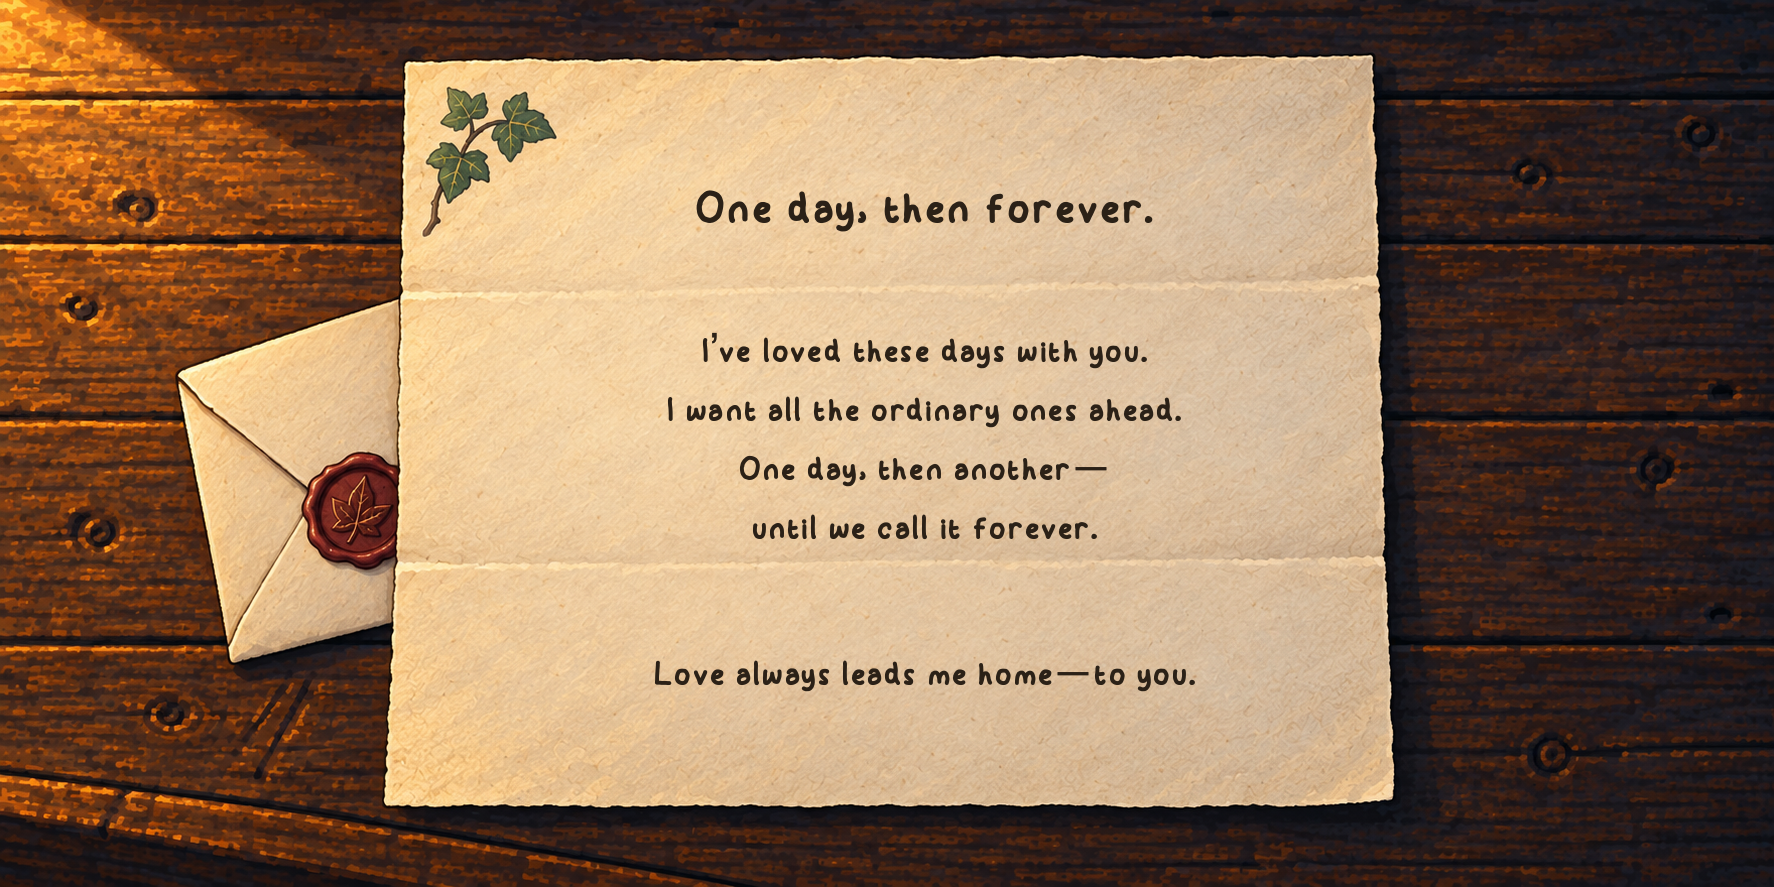
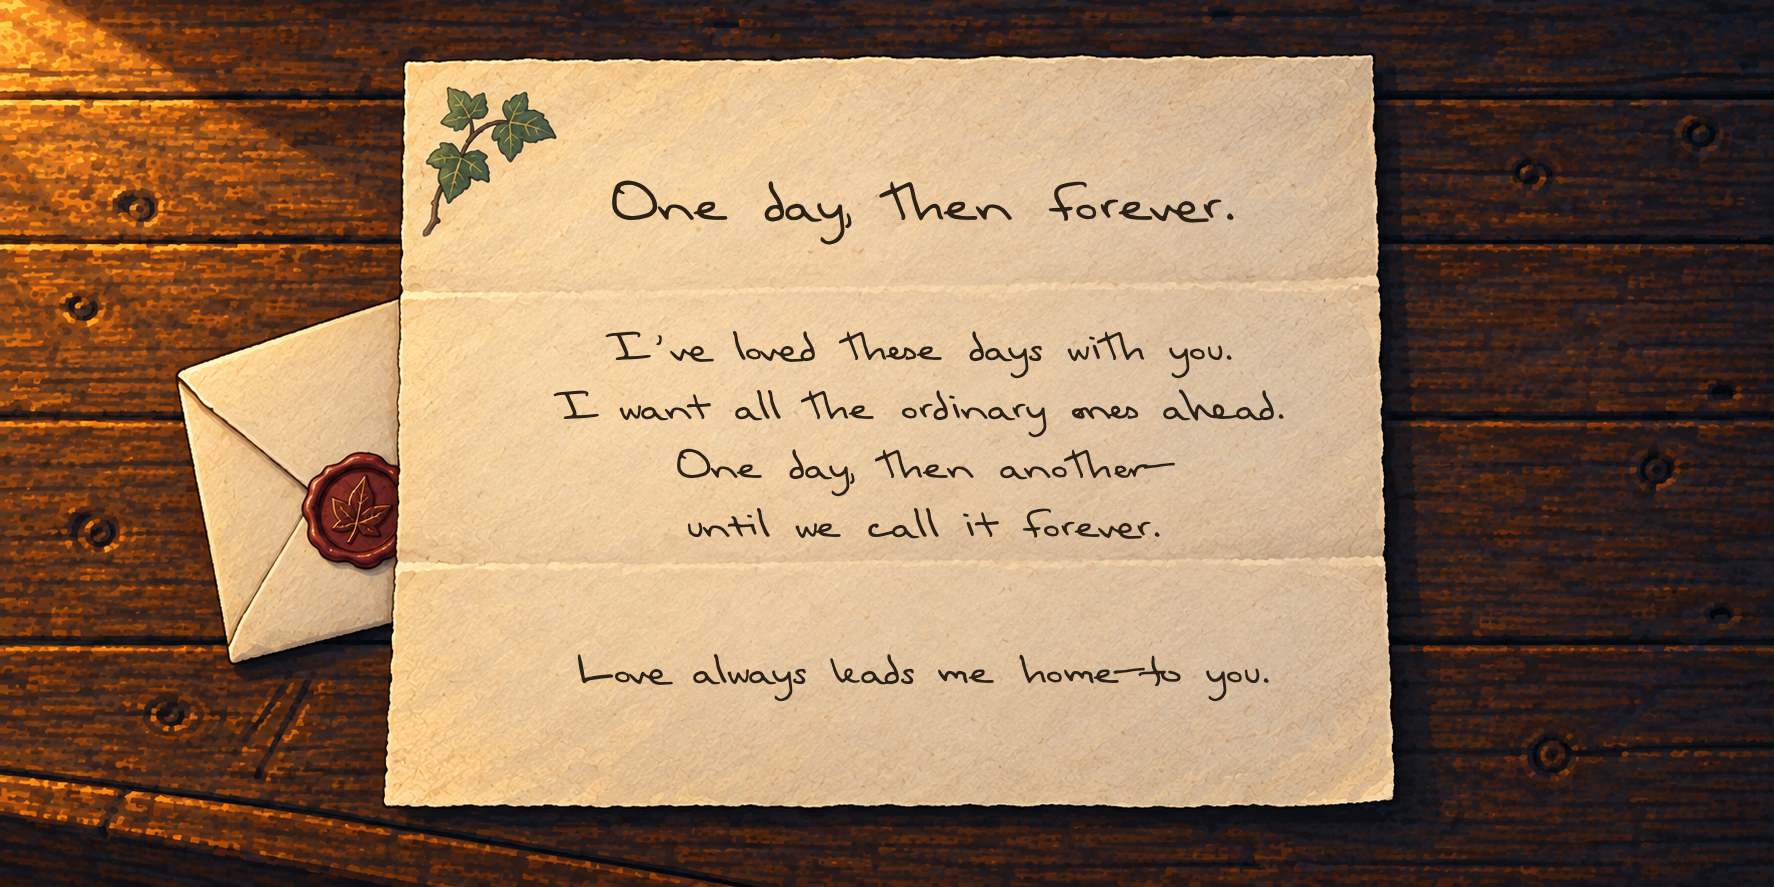
Use Juniper lettering for first and finale letters

diff --git a/scripts/export_finale_letters.swift b/scripts/export_finale_letters.swift
@@ -45,10 +45,10 @@ for state in ["idle", "lever", "envelope-half", "envelope-full", "heart"] {
     try export(load("machine-" + state), "lottery-machine-" + state)
 }
 
-CTFontManagerRegisterFontsForURL(root.appendingPathComponent("ios/Ivy/Fonts/Kiddos.ttf") as CFURL, .process, nil)
+CTFontManagerRegisterFontsForURL(root.appendingPathComponent("ios/Ivy/Fonts/Juniper-Regular.ttf") as CFURL, .process, nil)
 let paper = load("paper")
 // Original 1774×887 artwork: paper x=400...1390, y=58...808.
-// Lettering stays x=565...1285, y=176...745, clear of ivy and paper edges.
+// Lettering stays x=545...1305, y=176...745, clear of ivy and paper edges.
 let letters: [(String, [(String, CGFloat, CGFloat)])] = [
     ("letter-finale", [
         ("One day, then forever.", 182, 54),
@@ -73,7 +73,7 @@ for (name, lines) in letters {
     NSGraphicsContext.saveGraphicsState()
     NSGraphicsContext.current = NSGraphicsContext(cgContext: c, flipped: false)
     for (text, top, size) in lines {
-        let font = NSFont(name: "KidDos-Font", size: size)!
+        let font = NSFont(name: "Juniper-Regular", size: size)!
         let paragraph = NSMutableParagraphStyle()
         paragraph.alignment = .center
         let attributes: [NSAttributedString.Key: Any] = [
@@ -81,8 +81,8 @@ for (name, lines) in letters {
             .paragraphStyle: paragraph
         ]
         // A production guard against copy/font changes overflowing the writable surface.
-        precondition((text as NSString).size(withAttributes: attributes).width <= 720, "Letter line exceeds paper")
-        (text as NSString).draw(in: CGRect(x: 565, y: 887 - top - 80, width: 720, height: 80), withAttributes: attributes)
+        precondition((text as NSString).size(withAttributes: attributes).width <= 760, "Letter line exceeds paper")
+        (text as NSString).draw(in: CGRect(x: 545, y: 887 - top - 80, width: 760, height: 80), withAttributes: attributes)
     }
     NSGraphicsContext.restoreGraphicsState()
     try png(c.makeImage()!, source.appendingPathComponent(name + ".png"))

diff --git a/art/finale/letters/README.md b/art/finale/letters/README.md
@@ -1,6 +1,6 @@
 # First Letter and finale artwork
 
-Approved direction on 2026-09-25: cream folded paper, red ivy wax seal, warm wooden surface; user requested the game's system lettering, Kiddos, and the same style for the first Letter. The finale machine's dispensing assembly is also redesigned. No new copy or rewards.
+Approved direction on 2026-09-25: cream folded paper, red ivy wax seal, warm wooden surface; user subsequently selected Juniper lettering for both letters and the same style for the first Letter. The finale machine's dispensing assembly is also redesigned. No new copy or rewards.
 
 ## Sources and production
 
@@ -8,11 +8,11 @@ Built-in imagegen produced the images in `source/`. Reference roles: current `st
 
 Prompt direction: readable hand-painted dark contours, grouped shapes, restrained stepped brushwork, matte cream paper and wood, teal shadows, localized amber light; no vector placeholders, roll ends, extra objects or baked controls. For letter production, keep an overhead camera and a blank unfolded sheet on the same wooden surface; derive a closed envelope state and transparent envelope sprite from the approved design. For machine production, retain the room, compact console, teal/brass body and right lever; give the envelope a recessed dispensing mouth and supporting brass tray. Derive each state by changing only the lever, envelope depth or heart.
 
-`scripts/export_finale_letters.swift` exports all scales directly from these originals and renders exact Kiddos text using the bundled font. `letter-first.png` and `letter-finale.png` are authored composites. `envelope.png` supplies Yard `story-envelope` and `art/keepsakes/source/letter.png`; run `scripts/export_keepsakes.swift letter` for its inventory artwork.
+`scripts/export_finale_letters.swift` exports all scales directly from these originals and renders exact Juniper text using the bundled font. `letter-first.png` and `letter-finale.png` are authored composites. `envelope.png` supplies Yard `story-envelope` and `art/keepsakes/source/letter.png`; run `scripts/export_keepsakes.swift letter` for its inventory artwork.
 
 ## Placement and states
 
-- Letter reference canvas: 1774×887, overhead, full wooden support surface. Paper spans approximately x=400…1390, y=58…808; text uses x=565…1285, y=176…745, leaving ivy, folds and edges readable. Both pages use the same composition; no runtime text positioning. Root `PixelCanvas` owns the fitted 320×160 transform.
+- Letter reference canvas: 1774×887, overhead, full wooden support surface. Paper spans approximately x=400…1390, y=58…808; text uses x=545…1305, y=176…745, leaving ivy, folds and edges readable. Both pages use the same composition; no runtime text positioning. Root `PixelCanvas` owns the fitted 320×160 transform.
 - Machine reference canvas: 1774×887, front three-quarter camera. Envelope lies within the lower slot/tray x≈750…1060, y≈480…612, front edge behind the brass lip. Half-dispensed paper remains held by the mouth; full-dispensed paper rests in the tray. The console fully supports the machine.
 - Logical 320×160 interactive centers: lever (245,57), letter (162,99), token (164,68). The existing 33×25 brass/glass token assembly remains unchanged and fits inside the new window. All 13 icons retain their existing individual containment assets.
 - Closed → open is a short dissolve between authored full scenes, replacing the mismatched scroll atlas. First-letter saved opening and dismiss actions remain; the finale reopens directly after it has been viewed. Reduced motion skips the initial sealed pause. No ownership or save fields change.

diff --git a/docs/ui/UI-RULES.md b/docs/ui/UI-RULES.md
@@ -2,7 +2,7 @@
 
 ## Letter artwork revision · 2026-09-25
 
-The first Letter and post-13 finale letter share the approved cream folded-paper and red ivy wax-seal design. Their lettering uses the game's bundled Kiddos font, authored into the paper artwork; this is a local exception to Juniper inscriptions. Preserve each letter's wording. The finale machine's envelope belongs in its brass receiving tray, with matching idle, lever, half-dispensed, full-dispensed and heart states. Production sources and placement bounds are recorded in `art/finale/letters/README.md`.
+The first Letter and post-13 finale letter share the approved cream folded-paper and red ivy wax-seal design. Their lettering uses the bundled Juniper font, authored into the paper artwork (the user's final selection supersedes the earlier Kiddos request). Preserve each letter's wording. The finale machine's envelope belongs in its brass receiving tray, with matching idle, lever, half-dispensed, full-dispensed and heart states. Production sources and placement bounds are recorded in `art/finale/letters/README.md`.
 
 Current gameplay and document precedence: [IVY-GUIDE.md](../gameplay/IVY-GUIDE.md). Engineering and save compatibility: [DEVELOPMENT.md](../engineering/DEVELOPMENT.md). This file owns concrete UI rules and testing policy; earlier plans and art notes do not override it.
 
